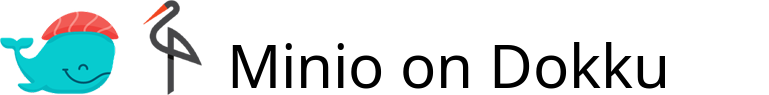
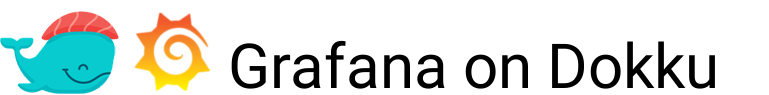
Added readme

Changed region(s): [[0.156, 0.0, 0.9363, 0.9895]]

diff --git a/README.md b/README.md
@@ -1,0 +1,134 @@
+![](.github/images/repo_header.png)
+
+[![Grafana Version](https://img.shields.io/badge/Grafana_version-5.1.3-green.svg)](https://github.com/grafana/grafana/releases/tag/v5.1.3) [![Maintenance](https://img.shields.io/badge/Maintained%3F-yes-green.svg)](https://github.com/D1ceWard/grafana_on_dokku/graphs/commit-activity)
+# Run Grafana on Dokku
+
+## Perquisites
+
+### What is Grafana?
+
+[Grafana](https://grafana.com/) is an open source, feature rich metrics dashboard and graph editor for Graphite, Elasticsearch, OpenTSDB, Prometheus and InfluxDB.
+
+### What is Dokku?
+
+[Dokku](http://dokku.viewdocs.io/dokku/) is the smallest PaaS implementation
+you've ever seen - _Docker powered mini-Heroku_.
+
+### Requirements
+* A working [Dokku host](http://dokku.viewdocs.io/dokku/getting-started/installation/)
+* [PostgreSQL](https://github.com/dokku/dokku-postgres) plugin for Dokku
+* [Letsencrypt](https://github.com/dokku/dokku-letsencrypt) plugin for SSL (optionnal)
+
+# Setup
+
+**Note:** We are going to use the domain `grafana.example.com` for demonstration
+purposes. Make sure to replace it to your domain name.
+
+## App and plugins
+
+### Create the app
+Log onto your Dokku Host to create the Grafana app:
+
+```bash
+dokku apps:create grafana
+```
+
+### Add plugins
+Install, create and link PostgreSQL and Redis plugins:
+```bash
+# Install postgres plugin on Dokku
+dokku plugin:install https://github.com/dokku/dokku-postgres.git postgres
+```
+```bash
+# Create running plugin
+dokku postgres:create grafana
+```
+```bash
+# Link plugin to the main app
+dokku postgres:link grafana grafana
+```
+
+## Configuration
+
+### Add GF_DATABASE_URL and GF_SERVER_HTTP_PORT to environement variables
+```bash
+# Show all enironement variables to copy content of DATABASE_URL variable
+dokku config grafana
+```
+```bash
+# Set GF_DATABASE_URL
+dokku config:set grafana GF_DATABASE_URL='previously_copied_database_url'
+```
+```bash
+# Set port to 5000
+dokku config:set GF_SERVER_HTTP_PORT=5000
+```
+
+### Setting secret key
+
+```bash
+dokku config:set grafana GF_SECURITY_SECRET_KEY=$(echo `openssl rand -base64 45` | tr -d \=+ | cut -c 1-32))
+```
+
+## Domain setup
+
+To get the routing working, we need to apply a few settings. First we set
+the domain.
+
+```bash
+dokku domains:set grafana grafana.example.com
+```
+
+## Push Grafana to Dokku
+
+### Grabbing the repository
+
+First clone this repository onto your machine.
+
+#### Via SSH
+
+```bash
+git clone git@github.com:D1ceWard/grafana_on_dokku.git
+```
+
+#### Via HTTPS
+
+```bash
+git clone https://github.com/D1ceWard/grafana_on_dokku.git
+```
+
+### Set up git remote
+
+Now you need to set up your Dokku server as a remote.
+
+```bash
+git remote add dokku dokku@example.com:grafana
+```
+
+### Push Grafana
+
+Now we can push Grafana to Dokku (_before_ moving on to the [next part](#domain-and-ssl-certificate)).
+
+```bash
+git push dokku master
+```
+
+## SSL certificate
+
+Last but not least, we can go an grab the SSL certificate from [Let's
+Encrypt](https://letsencrypt.org/).
+
+```bash
+# Install letsencrypt plugin
+dokku plugin:install https://github.com/dokku/dokku-letsencrypt.git
+
+# Set certificate contact email
+dokku config:set --no-restart grafana DOKKU_LETSENCRYPT_EMAIL=you@example.com
+
+# Generate certificate
+dokku letsencrypt grafana
+```
+
+## Wrapping up
+
+Your Grafana instance should now be available on [https://grafana.example.com](https://grafana.example.com).
